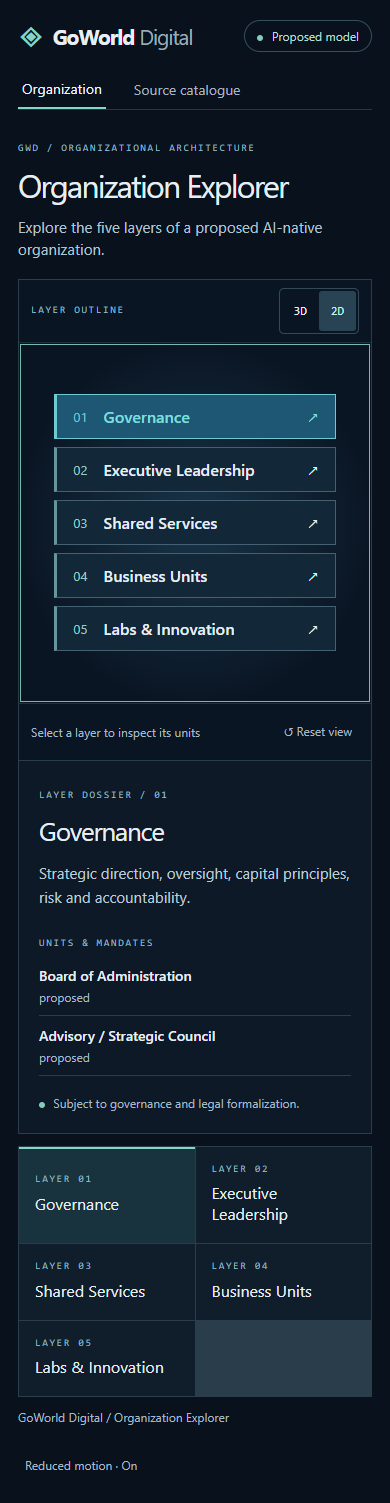
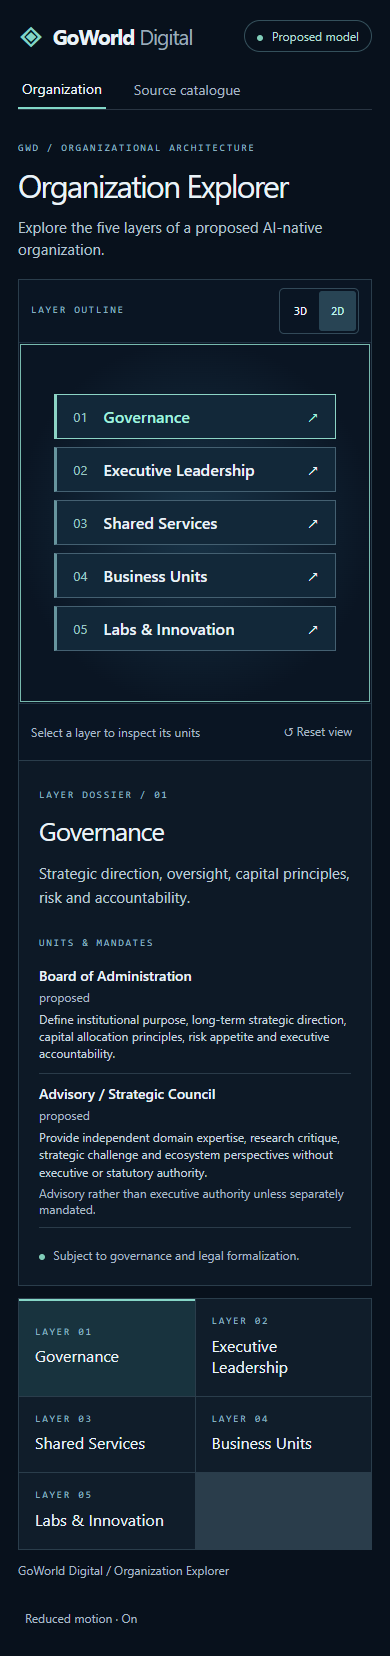
feat(ui): surface unit mandates, maturity stages, verified provenance and CSS design tokens

diff --git a/app/globals.css b/app/globals.css
@@ -1,15 +1,29 @@
+:root {
+  --gwd-abyss: #07111f;
+  --gwd-deep-navy: #0b1930;
+  --gwd-bg: #08111c;
+  --gwd-surface: #0d1926;
+  --gwd-stage: #0a1523;
+  --gwd-elevated: #11243a;
+  --gwd-text-primary: #eaf3f8;
+  --gwd-text-secondary: #a8bbcb;
+  --gwd-line-quiet: #263b52;
+  --gwd-accent-cyan: #67e8d2;
+  --gwd-accent-cobalt: #6d9dff;
+  --gwd-accent-violet: #b59aff;
+  --gwd-accent-investment: #e6b978;
+  --gwd-accent-warning: #e5a56d;
+  --gwd-font-sans: "Inter", "Segoe UI", Arial, sans-serif;
+  --gwd-font-mono: Consolas, "Courier New", monospace;
+}
 * {
   box-sizing: border-box;
 }
 html {
   color-scheme: dark;
-  background: #08111c;
-  color: #e6eff6;
-  font:
-    16px "Inter",
-    "Segoe UI",
-    Arial,
-    sans-serif;
+  background: var(--gwd-bg);
+  color: var(--gwd-text-primary);
+  font: 16px var(--gwd-font-sans);
 }
 body {
   margin: 0;
@@ -116,9 +130,7 @@ i {
 .eyebrow,
 .layers small,
 .rule {
-  font:
-    10px/1.45 Consolas,
-    monospace;
+  font: 10px/1.45 var(--gwd-font-mono);
   letter-spacing: 1.7px;
   text-transform: uppercase;
   color: #8db7c2;
@@ -144,14 +156,14 @@ h1 {
   display: grid;
   grid-template-columns: minmax(0, 2.5fr) minmax(270px, 1fr);
   border: 1px solid #2a3d4b;
-  background: #0d1926;
+  background: var(--gwd-surface);
 }
 .viewport {
   position: relative;
   display: flex;
   flex-direction: column;
   min-width: 0;
-  background: #0a1523;
+  background: var(--gwd-stage);
 }
 .viewbar,
 .viewfoot {
@@ -170,9 +182,7 @@ h1 {
 }
 .switch button {
   padding: 6px 12px;
-  font:
-    12px Consolas,
-    monospace;
+  font: 12px var(--gwd-font-mono);
 }
 .switch button[aria-pressed="true"] {
   background: #284454;
@@ -320,8 +330,17 @@ aside li strong {
 aside li small {
   margin-top: 4px;
 }
+aside li small.mandate {
+  color: #c5d4df;
+  line-height: 1.45;
+  margin-top: 6px;
+}
 .catalog p {
   max-width: 760px;
+}
+.catalog code {
+  font-family: var(--gwd-font-mono);
+  color: var(--gwd-accent-cyan);
 }
 .catalog > div {
   display: grid;
@@ -412,9 +431,7 @@ aside li small {
   left: 110px;
   top: -7px;
   white-space: nowrap;
-  font:
-    10px/1.4 Consolas,
-    monospace;
+  font: 10px/1.4 var(--gwd-font-mono);
   letter-spacing: 0.8px;
   color: #a2bcc9;
   text-transform: uppercase;

diff --git a/components/Explorer.tsx b/components/Explorer.tsx
@@ -194,7 +194,11 @@ export default function Explorer() {
                               {u.economicType
                                 ? " · " + formatStatus(u.economicType)
                                 : ""}
+                              {u.maturityStage
+                                ? " · stage: " + formatStatus(u.maturityStage)
+                                : ""}
                             </small>
+                            <small className="mandate">{u.mandate}</small>
                             {u.note && <small>{u.note}</small>}
                           </li>
                         ))}
@@ -261,8 +265,9 @@ export default function Explorer() {
               ))}
             </div>
             <p>
-              Inventory recorded {source.snapshotDate}. Upstream revision
-              unconfirmed.
+              Inventory recorded {source.snapshotDate} · Verified upstream commit{" "}
+              <code>{source.commit.slice(0, 12)}</code> ({source.license} · tree{" "}
+              <code>{source.tree.slice(0, 10)}</code>).
             </p>
             <a href={source.repository}>Agency Agents source repository ↗</a>
           </section>
